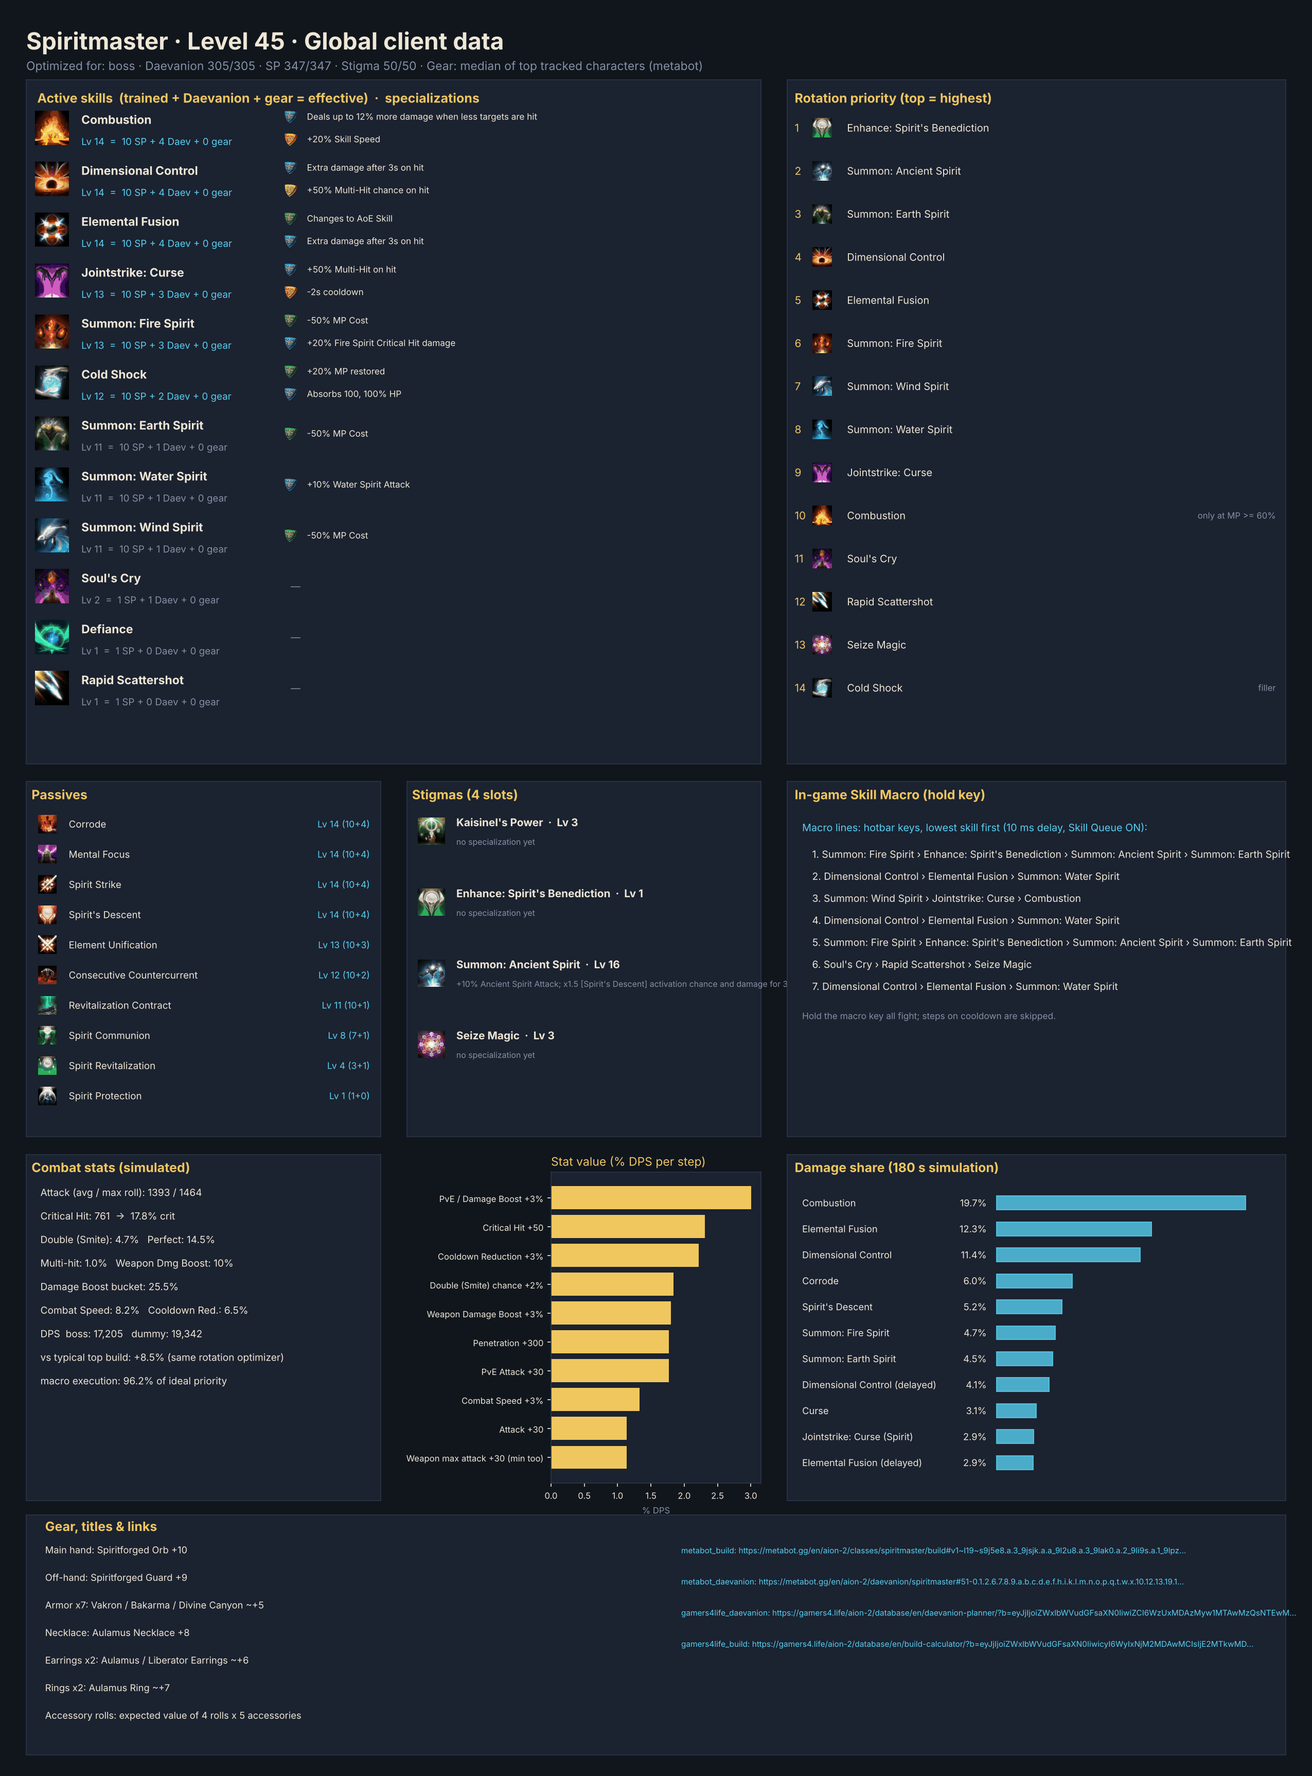
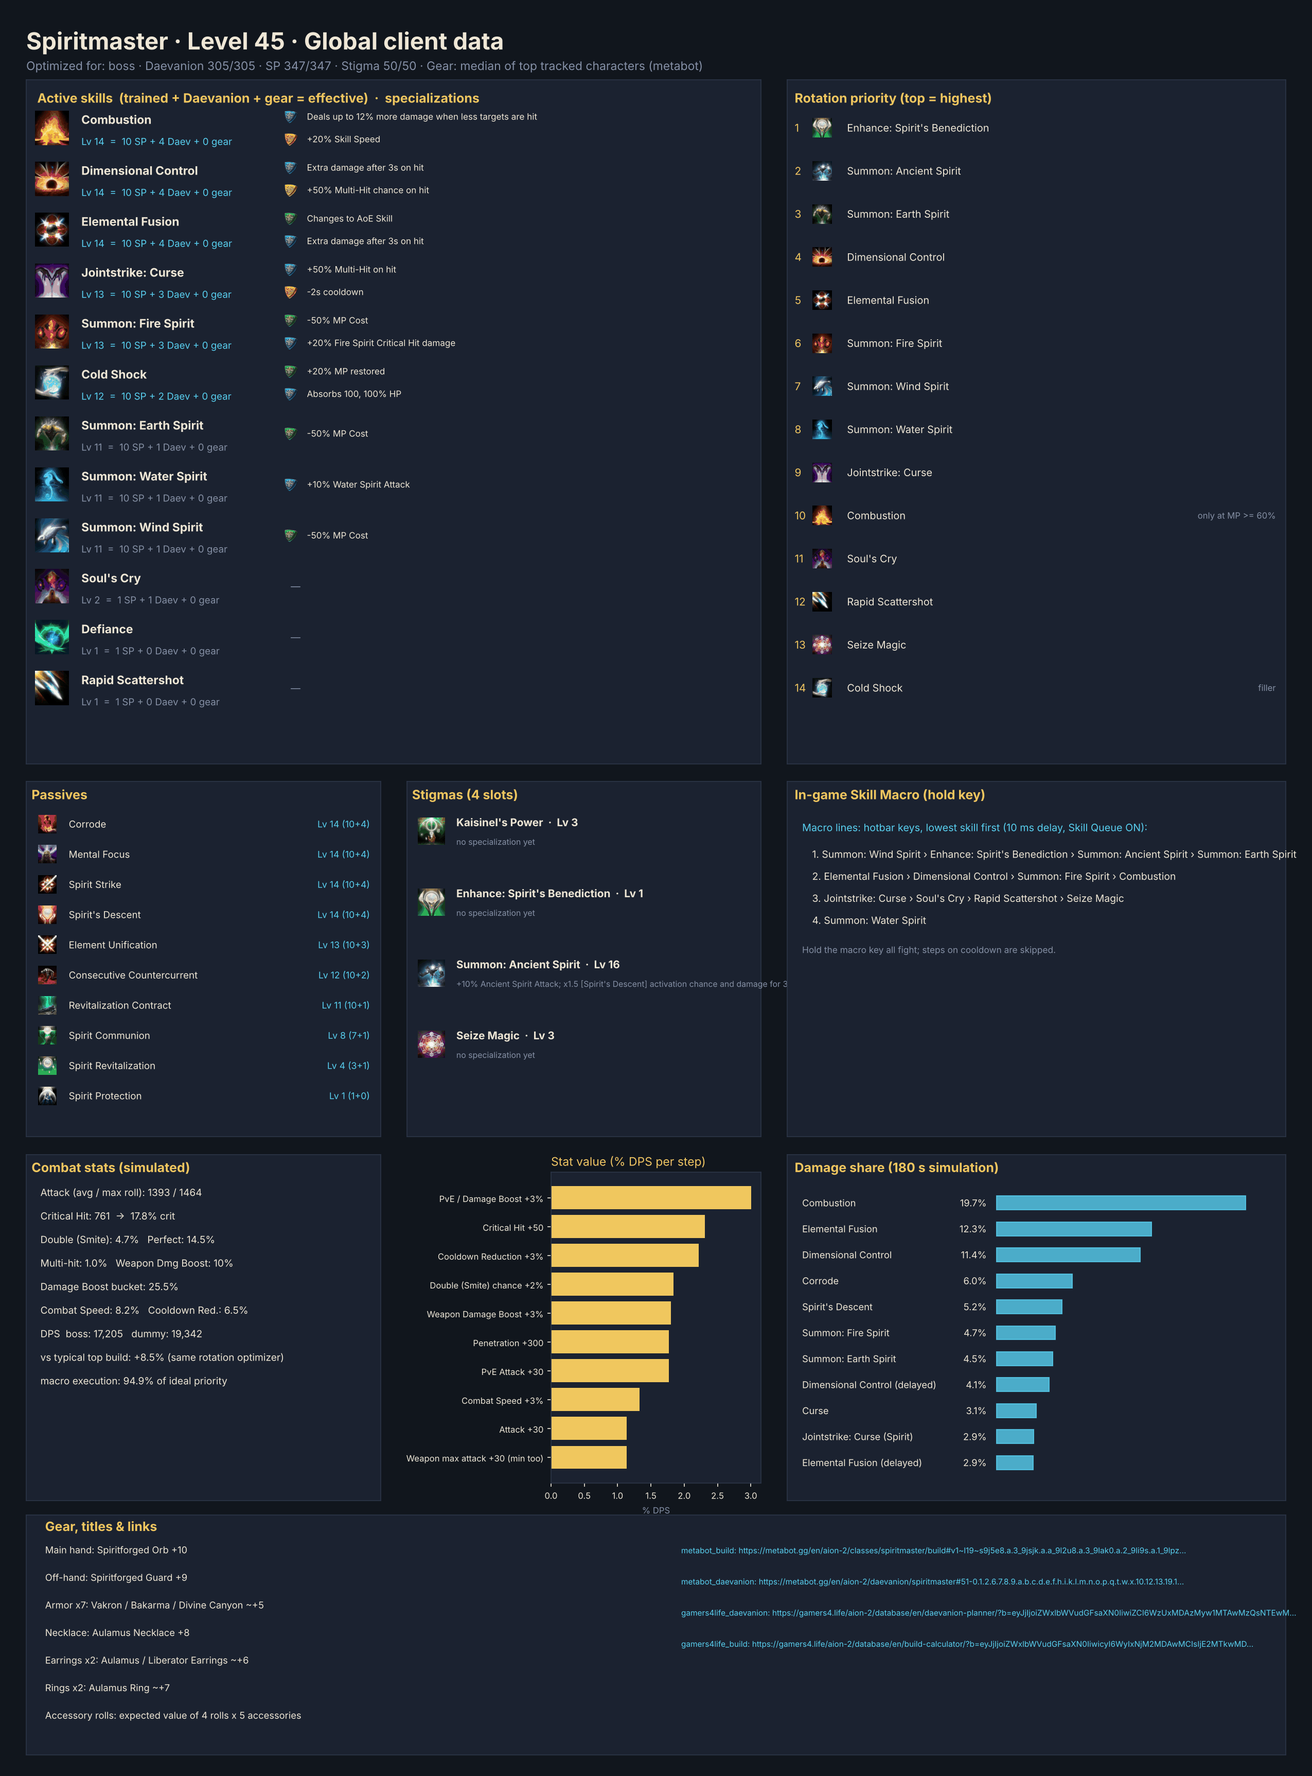
Bundled builds: the Sorcerer and Spiritmaster macros planned again; the methodology's table
The rest of the bundled PvE builds (the Sorcerer's and Spiritmaster's presets and the three
Sorcerer examples) re-planned by `render` with each key on one line; their board images are
left as committed (re-rendering only reordered their legends). The methodology's macro section
gives each class's macro share with keys on several lines and with each key once: the Chanter
(85.5 -> 78.4 %) and the Gladiator (90.8 -> 83.0 %) lose the most, the Ranger and the Sorcerer
nothing.

Claude-Session: https://claude.ai/code/session_01AC4afGrRJWCPN4E49PZ7UU

Changed region(s): [[0.6196, 0.4652, 0.8984, 0.5583], [0.031, 0.062, 0.062, 0.1861], [0.031, 0.3101, 0.062, 0.3412]]

diff --git a/results/sorcerer_l45_full_sp/README.md b/results/sorcerer_l45_full_sp/README.md
@@ -22,7 +22,7 @@ Damage objective subject to the saved HP and trained-skill reserves. Balanced us
 
 **Whole fight:** 18,114 DPS on the boss scenario, the same rotation stretched over the 35% of a recorded boss fight this class's players spend pressing nothing or dodging (the log server's public uploads). The table above is the rotation's own DPS, which the optimizer compares builds by; a parse on the log server is a whole fight's.
 
-The optimized build is **+13.2%** over the typical top global build played with the same rotation optimizer, and **+39.3%** over that build played with the default priority. *Typical top global build* = average skill levels, the four most-picked damage stigmas and the most-picked Daevanion nodes of the top tracked global L45 players of this class (metabot.gg live data), given the best legal specializations for its levels (specs are not published).
+The optimized build is **+13.2%** over the typical top global build played with the same rotation optimizer, and **+39.3%** over that build played with the default priority. *Typical top global build* = average skill levels, the four most-picked damage stigmas and the most-picked Daevanion nodes of the top tracked global L45 players of this class (metabot.gg live data), fitted to this build's skill and stigma points (spare points raise its most-levelled skills and stigmas first) and given the best legal specializations for its levels (specs are not published).
 
 ## Rotation (priority list)
 
@@ -50,22 +50,19 @@ Use the highest skill that is ready; the last entry is the filler.
 
 **Left mouse button** is the basic auto-attack: `flame_arrow`. Hold it for continuous attacks; the Skill Macro below goes on the **right mouse button** (or another held key). Weave both together.
 
-Each line is a hotbar key: put its skills on that key in the order listed, the first lowest (a key holds up to four). The macro casts a key's skills from first to last, skipping any that cannot be cast, then moves to the next line. Then Settings → Key Settings → General → Skill Macro: add the keys as macro lines from top to bottom, a key listed twice added twice. Skill Queue (스킬 예약) **ON**, 10 ms delay on every line, hold the macro key; manual presses always take priority over the macro. A skill's key presses its chain step while the chain is open, in the macro too.
+Each line is a hotbar key: put its skills on that key in the order listed, the first lowest (a key holds up to four). The macro casts a key's skills from first to last, skipping any that cannot be cast, then moves to the next line. Then Settings → Key Settings → General → Skill Macro: add the keys as macro lines from top to bottom, each once: held, the macro cycles through them. Skill Queue (스킬 예약) **ON**, 10 ms delay on every line, hold the macro key; manual presses always take priority over the macro. A skill's key presses its chain step while the chain is open, in the macro too.
 
 | Line | Hotbar key holds (cast in this order) |
 |---:|---|
-| 1 | fire_wall › element_enhancement › wish › flame_scattershot |
-| 2 | blaze › cold_storm |
-| 3 | winters_shackles › bittercold_wind |
-| 4 | delayed_explosion › frost |
-| 5 | winters_shackles › bittercold_wind |
-| 6 | blaze › cold_storm |
-| 7 | frost_burst › firestorm › ice_chain |
-| 8 | blaze › cold_storm |
+| 1 | wish › frost_burst › cold_storm |
+| 2 | fire_wall › element_enhancement |
+| 3 | firestorm › winters_shackles › bittercold_wind |
+| 4 | flame_scattershot › ice_chain |
+| 5 | delayed_explosion › frost › blaze |
 
 Manual keys (press on cooldown, in this priority): hellfire_c3 [sync_de]
 
-Simulated: this layout reaches **98.3%** of the ideal priority list.
+Simulated: this layout reaches **97.6%** of the ideal priority list.
 
 **Alternative — one skill per macro line**: macro firestorm → bittercold_wind → flame_scattershot → blaze → frost_burst → ice_chain → flame_arrow; manual: winters_shackles [sync_de], fire_wall, wish, element_enhancement, cold_storm, delayed_explosion, hellfire_c3 [sync_de], frost. Simulated: **90.2%** of the ideal priority list.
 

diff --git a/results/compare/sorcerer/README.md b/results/compare/sorcerer/README.md
@@ -50,24 +50,19 @@ Use the highest skill that is ready; the last entry is the filler.
 
 **Left mouse button** is the basic auto-attack: `flame_arrow`. Hold it for continuous attacks; the Skill Macro below goes on the **right mouse button** (or another held key). Weave both together.
 
-Each line is a hotbar key: put its skills on that key in the order listed, the first lowest (a key holds up to four). The macro casts a key's skills from first to last, skipping any that cannot be cast, then moves to the next line. Then Settings → Key Settings → General → Skill Macro: add the keys as macro lines from top to bottom, a key listed twice added twice. Skill Queue (스킬 예약) **ON**, 10 ms delay on every line, hold the macro key; manual presses always take priority over the macro. A skill's key presses its chain step while the chain is open, in the macro too.
+Each line is a hotbar key: put its skills on that key in the order listed, the first lowest (a key holds up to four). The macro casts a key's skills from first to last, skipping any that cannot be cast, then moves to the next line. Then Settings → Key Settings → General → Skill Macro: add the keys as macro lines from top to bottom, each once: held, the macro cycles through them. Skill Queue (스킬 예약) **ON**, 10 ms delay on every line, hold the macro key; manual presses always take priority over the macro. A skill's key presses its chain step while the chain is open, in the macro too.
 
 | Line | Hotbar key holds (cast in this order) |
 |---:|---|
-| 1 | delayed_explosion › cold_storm |
-| 2 | element_enhancement › blaze › wish |
-| 3 | flame_scattershot › bittercold_wind |
-| 4 | element_enhancement › blaze › wish |
-| 5 | delayed_explosion › cold_storm |
-| 6 | element_enhancement › blaze › wish |
-| 7 | winters_shackles › frost_burst › firestorm › frost |
-| 8 | flame_scattershot › bittercold_wind |
+| 1 | flame_scattershot › fire_wall › bittercold_wind › frost |
+| 2 | element_enhancement › cold_storm › wish › blaze |
+| 3 | winters_shackles › delayed_explosion › frost_burst › firestorm |
 
-Manual keys (press on cooldown, in this priority): fire_wall, hellfire_c3
+Manual keys (press on cooldown, in this priority): hellfire_c3
 
-Simulated: this layout reaches **96.4%** of the ideal priority list.
+Simulated: this layout reaches **96.6%** of the ideal priority list.
 
-**Alternative — one skill per macro line**: macro firestorm → frost_burst → bittercold_wind → flame_scattershot → ice_chain → flame_arrow; manual: blaze [in_ee], fire_wall, element_enhancement, cold_storm, wish, delayed_explosion, winters_shackles [sync_de], hellfire_c3, frost. Simulated: **95.7%** of the ideal priority list.
+**Alternative — one skill per macro line**: macro firestorm → frost_burst → bittercold_wind → flame_scattershot → ice_chain → flame_arrow; manual: blaze [in_ee], fire_wall, element_enhancement, cold_storm, wish, delayed_explosion, winters_shackles [sync_de], hellfire_c3, frost. Simulated: **95.6%** of the ideal priority list.
 
 ### Opener (first 30 s of the simulated fight)
 

diff --git a/results/sorcerer_l45/README.md b/results/sorcerer_l45/README.md
@@ -50,24 +50,19 @@ Use the highest skill that is ready; the last entry is the filler.
 
 **Left mouse button** is the basic auto-attack: `flame_arrow`. Hold it for continuous attacks; the Skill Macro below goes on the **right mouse button** (or another held key). Weave both together.
 
-Each line is a hotbar key: put its skills on that key in the order listed, the first lowest (a key holds up to four). The macro casts a key's skills from first to last, skipping any that cannot be cast, then moves to the next line. Then Settings → Key Settings → General → Skill Macro: add the keys as macro lines from top to bottom, a key listed twice added twice. Skill Queue (스킬 예약) **ON**, 10 ms delay on every line, hold the macro key; manual presses always take priority over the macro. A skill's key presses its chain step while the chain is open, in the macro too.
+Each line is a hotbar key: put its skills on that key in the order listed, the first lowest (a key holds up to four). The macro casts a key's skills from first to last, skipping any that cannot be cast, then moves to the next line. Then Settings → Key Settings → General → Skill Macro: add the keys as macro lines from top to bottom, each once: held, the macro cycles through them. Skill Queue (스킬 예약) **ON**, 10 ms delay on every line, hold the macro key; manual presses always take priority over the macro. A skill's key presses its chain step while the chain is open, in the macro too.
 
 | Line | Hotbar key holds (cast in this order) |
 |---:|---|
-| 1 | delayed_explosion › cold_storm |
-| 2 | element_enhancement › blaze › wish |
-| 3 | flame_scattershot › bittercold_wind |
-| 4 | element_enhancement › blaze › wish |
-| 5 | delayed_explosion › cold_storm |
-| 6 | element_enhancement › blaze › wish |
-| 7 | winters_shackles › frost_burst › firestorm › frost |
-| 8 | flame_scattershot › bittercold_wind |
+| 1 | flame_scattershot › fire_wall › bittercold_wind › frost |
+| 2 | element_enhancement › cold_storm › wish › blaze |
+| 3 | winters_shackles › delayed_explosion › frost_burst › firestorm |
 
-Manual keys (press on cooldown, in this priority): fire_wall, hellfire_c3
+Manual keys (press on cooldown, in this priority): hellfire_c3
 
-Simulated: this layout reaches **96.4%** of the ideal priority list.
+Simulated: this layout reaches **96.6%** of the ideal priority list.
 
-**Alternative — one skill per macro line**: macro firestorm → frost_burst → bittercold_wind → flame_scattershot → ice_chain → flame_arrow; manual: blaze [in_ee], fire_wall, element_enhancement, cold_storm, wish, delayed_explosion, winters_shackles [sync_de], hellfire_c3, frost. Simulated: **95.7%** of the ideal priority list.
+**Alternative — one skill per macro line**: macro firestorm → frost_burst → bittercold_wind → flame_scattershot → ice_chain → flame_arrow; manual: blaze [in_ee], fire_wall, element_enhancement, cold_storm, wish, delayed_explosion, winters_shackles [sync_de], hellfire_c3, frost. Simulated: **95.6%** of the ideal priority list.
 
 ### Opener (first 30 s of the simulated fight)
 

diff --git a/docs/methodology.md b/docs/methodology.md
@@ -2007,6 +2007,28 @@ next line, and each key is on one line (the editor takes 20): held, the macro cy
 comes round again each cycle (0.2.388, below; a key had sat on several lines so that its skills were tried more
 often).
 
+**Each key on one line (0.2.388).** The player holds the macro key and the macro cycles through its lines, so every
+key comes round again each cycle. From 0.2.376 to 0.2.387 the search could put a key on several lines so that its
+skills were tried more often (the bundled Assassin's first key sat on six of its twelve lines); the planner now keeps
+each key on its first line (macro model 6), and a chain step whose parent is on the macro has no line of its own. A
+macro saved under model 5 shows each key once and no estimate until optimized again. The bundled PvE builds' macros,
+planned again, play this share of the ideal priority list (before: as last planned, under 0.2.384's model):
+
+| Class | Keys on several lines | Each key once | One skill per line |
+|---|---:|---:|---:|
+| Assassin | 95.0 % (5 keys, 12 lines) | 91.9 % (5 keys) | 81.6 % |
+| Chanter | 85.5 % (5 keys, 11 lines) | 78.4 % (3 keys) | 94.4 % |
+| Cleric | 91.3 % (3 keys, 5 lines) | 90.8 % (3 keys) | 71.8 % |
+| Gladiator | 90.8 % (5 keys, 8 lines) | 83.0 % (4 keys) | 70.9 % |
+| Ranger | 98.6 % (3 keys, 4 lines) | 98.6 % (4 keys) | 86.2 % |
+| Sorcerer | 96.4 % (4 keys, 8 lines) | 96.6 % (3 keys) | 95.6 % |
+| Spiritmaster | 96.2 % (4 keys, 7 lines) | 94.9 % (4 keys) | 81.5 % |
+| Templar | 93.2 % (3 keys, 6 lines) | 92.1 % (3 keys) | 95.8 % |
+
+The Chanter and the Gladiator lose the most: their top skills came round two or three times a cycle. The layout of
+one skill per line keeps more skills on manual keys, which the simulation presses on cooldown, so it reads higher
+where the keys read lower.
+
 **A key's skills in order (0.2.377).** From 0.2.371 to 0.2.376 the simulation had a key cast only the first of its
 skills that was ready, as a priority list, before the macro moved to the next line; the game's macro casts them all,
 first to last (macro model 5). A key on the line straight after its own then looked as if it cast more of its skills,
@@ -2044,6 +2066,9 @@ comparison, as the 0.2.371–0.2.376 simulation had them:
 
 The Templar's macro is four keys on six lines, each of the first two keys pressed twice a round: Shield Rush, Shield
 Smite, Noble Armor and Judgment; Taunt, Annihilate and Warding Strike; Executing Blade and Pummel; Doom Shield.
+*Since 0.2.388 the bundled Templar's macro is three keys on three lines: Empyrean Lord's Punishment, Noble Armor,
+Poach and Taunt; Shield Smite, Shield Rush and Warding Strike; Judgment, Debilitating Smash, Annihilate and Doom
+Shield.*
 Punishment is charged by hand. A chain step has no key of its own: a macro step for it is its parent added again, and
 the parent's key presses the chain step while the chain is open and the parent otherwise, so the simulation presses
 whichever the key would for a step of either (0.2.323; a step for the chain step had pressed nothing until another

diff --git a/results/compare/spiritmaster/README.md b/results/compare/spiritmaster/README.md
@@ -49,21 +49,18 @@ Use the highest skill that is ready; the last entry is the filler.
 
 **Left mouse button** is the basic auto-attack: `cold_shock`. Hold it for continuous attacks; the Skill Macro below goes on the **right mouse button** (or another held key). Weave both together.
 
-Each line is a hotbar key: put its skills on that key in the order listed, the first lowest (a key holds up to four). The macro casts a key's skills from first to last, skipping any that cannot be cast, then moves to the next line. Then Settings → Key Settings → General → Skill Macro: add the keys as macro lines from top to bottom, a key listed twice added twice. Skill Queue (스킬 예약) **ON**, 10 ms delay on every line, hold the macro key; manual presses always take priority over the macro. A skill's key presses its chain step while the chain is open, in the macro too.
+Each line is a hotbar key: put its skills on that key in the order listed, the first lowest (a key holds up to four). The macro casts a key's skills from first to last, skipping any that cannot be cast, then moves to the next line. Then Settings → Key Settings → General → Skill Macro: add the keys as macro lines from top to bottom, each once: held, the macro cycles through them. Skill Queue (스킬 예약) **ON**, 10 ms delay on every line, hold the macro key; manual presses always take priority over the macro. A skill's key presses its chain step while the chain is open, in the macro too.
 
 | Line | Hotbar key holds (cast in this order) |
 |---:|---|
-| 1 | summon_fire › enhance › ancient_spirit › summon_earth |
-| 2 | dimensional_control › elemental_fusion › summon_water |
-| 3 | summon_wind › jointstrike_curse › combustion |
-| 4 | dimensional_control › elemental_fusion › summon_water |
-| 5 | summon_fire › enhance › ancient_spirit › summon_earth |
-| 6 | soul_cry › rapid_scattershot › seize_magic |
-| 7 | dimensional_control › elemental_fusion › summon_water |
+| 1 | summon_wind › enhance › ancient_spirit › summon_earth |
+| 2 | elemental_fusion › dimensional_control › summon_fire › combustion |
+| 3 | jointstrike_curse › soul_cry › rapid_scattershot › seize_magic |
+| 4 | summon_water |
 
 Manual keys (press on cooldown, in this priority): none — hold the macro key for the whole fight
 
-Simulated: this layout reaches **96.2%** of the ideal priority list.
+Simulated: this layout reaches **94.9%** of the ideal priority list.
 
 **Alternative — one skill per macro line**: macro summon_fire → summon_water → summon_wind → jointstrike_curse → summon_earth → rapid_scattershot → combustion → cold_shock; manual: enhance, ancient_spirit, dimensional_control, elemental_fusion, soul_cry, seize_magic. Simulated: **81.5%** of the ideal priority list.
 

diff --git a/results/sorcerer_l45_geared/README.md b/results/sorcerer_l45_geared/README.md
@@ -50,21 +50,18 @@ Use the highest skill that is ready; the last entry is the filler.
 
 **Left mouse button** is the basic auto-attack: `flame_arrow`. Hold it for continuous attacks; the Skill Macro below goes on the **right mouse button** (or another held key). Weave both together.
 
-Each line is a hotbar key: put its skills on that key in the order listed, the first lowest (a key holds up to four). The macro casts a key's skills from first to last, skipping any that cannot be cast, then moves to the next line. Then Settings → Key Settings → General → Skill Macro: add the keys as macro lines from top to bottom, a key listed twice added twice. Skill Queue (스킬 예약) **ON**, 10 ms delay on every line, hold the macro key; manual presses always take priority over the macro. A skill's key presses its chain step while the chain is open, in the macro too.
+Each line is a hotbar key: put its skills on that key in the order listed, the first lowest (a key holds up to four). The macro casts a key's skills from first to last, skipping any that cannot be cast, then moves to the next line. Then Settings → Key Settings → General → Skill Macro: add the keys as macro lines from top to bottom, each once: held, the macro cycles through them. Skill Queue (스킬 예약) **ON**, 10 ms delay on every line, hold the macro key; manual presses always take priority over the macro. A skill's key presses its chain step while the chain is open, in the macro too.
 
 | Line | Hotbar key holds (cast in this order) |
 |---:|---|
-| 1 | fire_wall › element_enhancement › wish |
-| 2 | cold_storm › delayed_explosion › bittercold_wind |
-| 3 | blaze › firestorm |
+| 1 | fire_wall › wish › element_enhancement |
+| 2 | blaze › winters_shackles › firestorm › frost_burst |
+| 3 | cold_storm › bittercold_wind › delayed_explosion › ice_chain |
 | 4 | frost › flame_scattershot |
-| 5 | fire_wall › element_enhancement › wish |
-| 6 | winters_shackles › frost_burst › ice_chain |
-| 7 | frost › flame_scattershot |
 
 Manual keys (press on cooldown, in this priority): hellfire_c3
 
-Simulated: this layout reaches **98.1%** of the ideal priority list.
+Simulated: this layout reaches **97.8%** of the ideal priority list.
 
 **Alternative — one skill per macro line**: macro blaze → flame_scattershot → firestorm → bittercold_wind → frost_burst → ice_chain → flame_arrow; manual: fire_wall, element_enhancement, wish, cold_storm, delayed_explosion, winters_shackles, hellfire_c3, frost. Simulated: **92.2%** of the ideal priority list.
 
